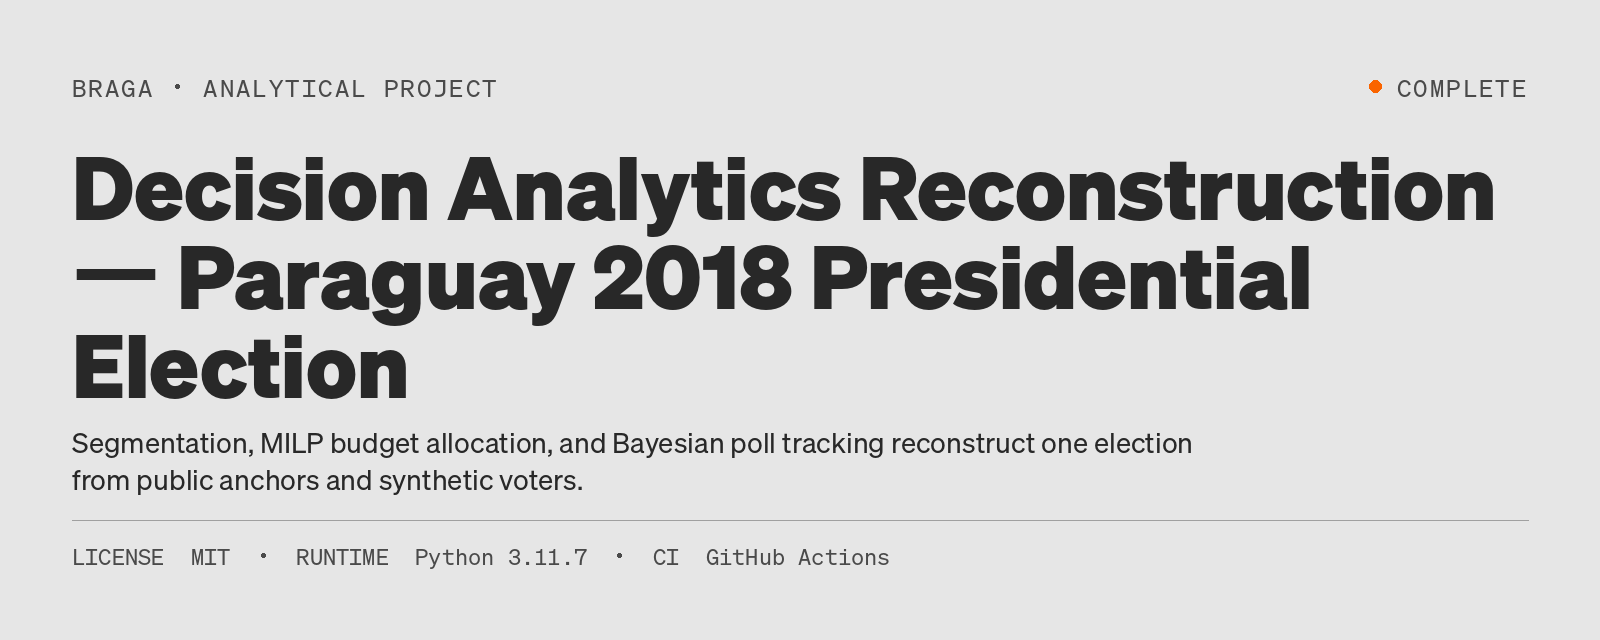
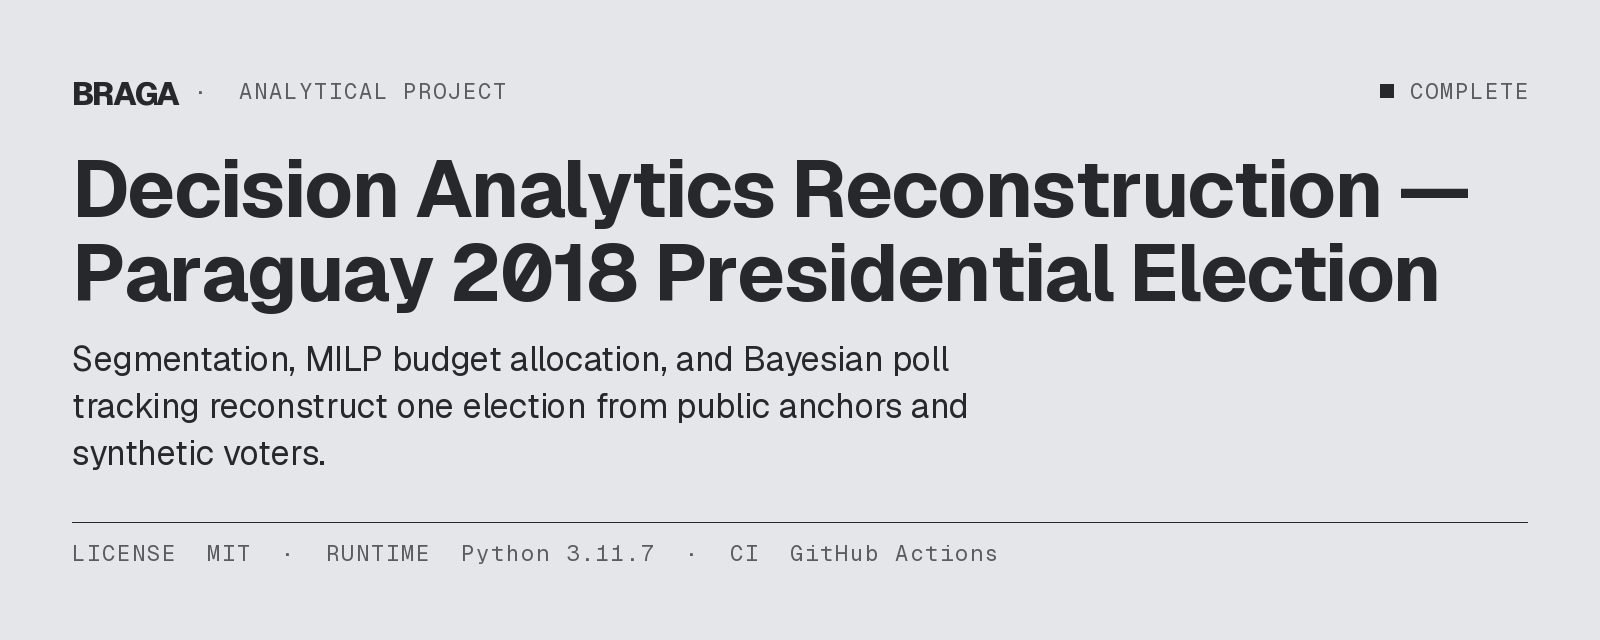
README on the Braga design system v2.1
Banner regenerated on design system v2.1 (BKribitz, status square, no
accent; D-051), shields badges in the neutrals (D-054), Mermaid diagrams
on the site's theme (D-052). Applied by braga-portfolio-docs
`python -m readme_quality fix`; the graph and the prose are unchanged.

Claude-Session: https://claude.ai/code/session_017JXfGqfFadubVauUqq2nZv

diff --git a/README.md b/README.md
@@ -4,9 +4,9 @@
 
 [![CI](https://github.com/RafaelBraga-Kribitz/decision-analytics-reconstruction/actions/workflows/ci.yml/badge.svg)](https://github.com/RafaelBraga-Kribitz/decision-analytics-reconstruction/actions/workflows/ci.yml)
 [![Governance](https://github.com/RafaelBraga-Kribitz/decision-analytics-reconstruction/actions/workflows/governance.yml/badge.svg)](https://github.com/RafaelBraga-Kribitz/decision-analytics-reconstruction/actions/workflows/governance.yml)
-[![Python 3.11](https://img.shields.io/badge/python-3.11-blue)](.python-version)
-[![License: MIT](https://img.shields.io/badge/license-MIT-green.svg)](LICENSE)
-[![Status: Complete](https://img.shields.io/badge/status-Complete-brightgreen)](#status)
+[![Python 3.11](https://img.shields.io/badge/python-3.11-5A5C61?labelColor=26282C)](.python-version)
+[![License: MIT](https://img.shields.io/badge/license-MIT-5A5C61?labelColor=26282C)](LICENSE)
+[![Status: Complete](https://img.shields.io/badge/status-Complete-5A5C61?labelColor=26282C)](#status)
 
 **Status:** Complete
 
@@ -175,6 +175,33 @@ Validation gates: [`reports/VALIDATION.md`](reports/VALIDATION.md). Golden snaps
 ## Architecture
 
 ```mermaid
+%%{init: {
+  "theme": "base",
+  "fontFamily": "BKribitz, system-ui, -apple-system, Segoe UI, Helvetica, Arial, sans-serif",
+  "themeVariables": {
+    "background": "#E4E6EA",
+    "primaryColor": "#DCDEE2",
+    "primaryTextColor": "#26282C",
+    "primaryBorderColor": "#26282C",
+    "secondaryColor": "#E4E6EA",
+    "secondaryTextColor": "#26282C",
+    "secondaryBorderColor": "#5A5C61",
+    "tertiaryColor": "#E4E6EA",
+    "tertiaryTextColor": "#26282C",
+    "tertiaryBorderColor": "#C2C4CA",
+    "lineColor": "#5A5C61",
+    "textColor": "#26282C",
+    "mainBkg": "#DCDEE2",
+    "nodeBorder": "#26282C",
+    "clusterBkg": "#E4E6EA",
+    "clusterBorder": "#C2C4CA",
+    "edgeLabelBackground": "#E4E6EA",
+    "titleColor": "#26282C",
+    "fontFamily": "BKribitz, system-ui, -apple-system, Segoe UI, Helvetica, Arial, sans-serif",
+    "fontSize": "14px"
+  },
+  "flowchart": { "curve": "linear", "htmlLabels": true, "padding": 8 }
+}}%%
 flowchart TD
   A[Module A — population, segments, turnout] --> B[Module B — MILP allocation + routing]
   B --> C[Module C — poll tracking + MC scenarios]
